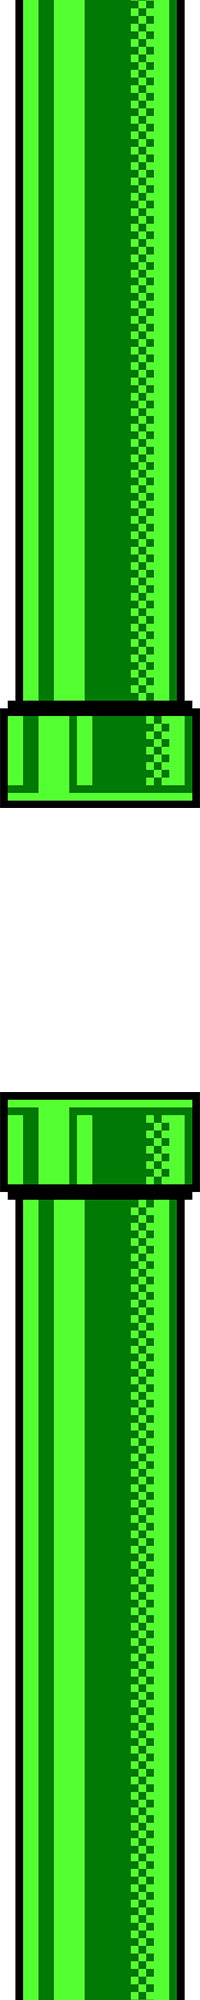
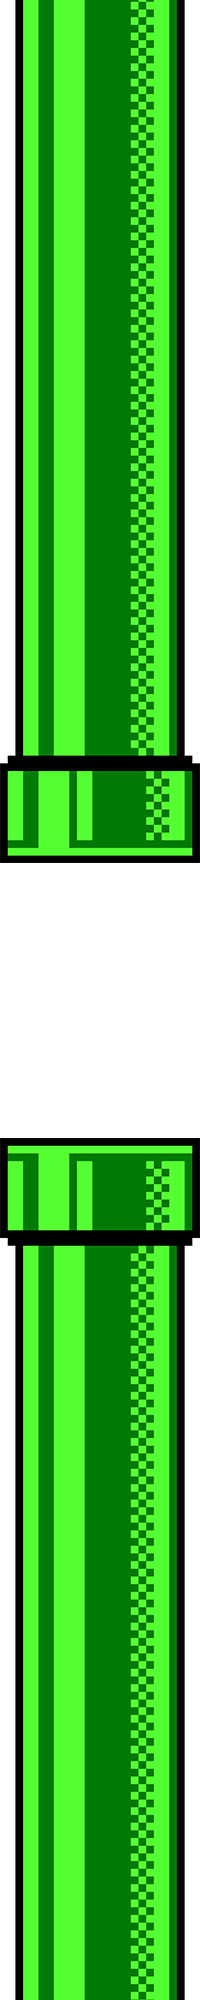
somewhat stable
it crashes when the first pipe gets moved back; otherwise works (gotta work on hitbox)

Changed region(s): [[0.0, 0.0, 1.0, 0.434], [0.0, 0.527, 1.0, 0.651]]

diff --git a/dwagon/DWAGON.java b/dwagon/DWAGON.java
@@ -8,7 +8,7 @@ import java.lang.Math;
  */
 public class DWAGON extends Actor 
 {
-    double a = 1.00000000001;    //acceleration
+    double a = 1.0001;    //acceleration
     double v;   //velocity
     double x;    //x-value
     boolean pressed_shift = false;
@@ -16,27 +16,32 @@ public class DWAGON extends Actor
     boolean dash_enabled = true;   //enables dash
     static boolean dead = false;
     int t;  //counted ticks
+    GreenfootImage dwagon_down = new GreenfootImage("images/dwagon_Wings_down.png");
+    GreenfootImage dwagon_middle = new GreenfootImage("images/dwagon_Wings_middle.png");
+    GreenfootImage dwagon_up = new GreenfootImage("images/dwagon_Wings_up.png");
     
     /**
      * Act - do whatever the dwagon wants to do. This method is called whenever
      * the 'Act' or 'Run' button gets pressed in the environment.
      */
     public DWAGON() {
-
+        dwagon_down.scale(dwagon_down.getWidth()/2,dwagon_down.getHeight()/2);
+        dwagon_middle.scale(dwagon_middle.getWidth()/2,dwagon_middle.getHeight()/2);
+        dwagon_up.scale(dwagon_up.getWidth()/2,dwagon_up.getHeight()/2);
     }
     
     public void act() 
     {        
         if (v <= -15) {
-            setImage("dwagon_Wings_down.png");
+            setImage(dwagon_down);
         }
         
         if (v >-15 || v >= 15) {
-            setImage("dwagon_Wings_middle.png");
+            setImage(dwagon_middle);
         }
         
         if (v > 15) {
-            setImage("dwagon_Wings_up.png");
+            setImage(dwagon_up);
         }
         
         v = (v + a);
@@ -65,11 +70,7 @@ public class DWAGON extends Actor
                 count = true;
             }
         }
-        
-        if (isTouching(PIPE.class)) {
-            dead = true;
-        }
-        
+                
         if (isAtEdge()) {  //checks if touched the ground or flew to high
             dead = true;           
         }
@@ -80,22 +81,19 @@ public class DWAGON extends Actor
         
         dead = false;
         
-        //for(PIPE pipe : getWorld().getObjects(PIPE.class)){
-        //    if(Math.abs(pipe.getX() - getX()) == -50){
-        //        if(Math.abs(pipe.getY() + 30 - getY()) > 37){
-        //            dead = true;
-        //        }
-        //    }
-        //}
+        for(PIPE pipe : getWorld().getObjects(PIPE.class)){
+            if(isTouching(PIPE.class)){
+                dash_enabled = false;
+                if(Math.abs(pipe.getY() - getY()) > 50){
+                    dead = true;
+                }
+            }
+            dash_enabled = true;
+        }
     }
-    
-    public boolean touches(Class clss) {
-        Actor actor = getOneObjectAtOffset(0, 0, clss);
-        return actor != null;        
-    }
-    
+        
     private void boost() {
-        v = -30;    //negative velocity for upwards movement
+        v = -25;    //negative velocity for upwards movement
     }
     
     private void dash() {

diff --git a/dwagon/PIPE.java b/dwagon/PIPE.java
@@ -12,18 +12,25 @@ public class PIPE extends Actor
      * Act - do whatever the PIPE wants to do. This method is called whenever
      * the 'Act' or 'Run' button gets pressed in the environment.
      */
+    int j = 0;
+    
     public PIPE() {
         GreenfootImage pipes = new GreenfootImage("images/pipes.png");
         pipes.scale(pipes.getWidth()/2,pipes.getHeight()/2);
         setImage(pipes);
     }
     public void act()
-    {
+    {       
+        World world = getWorld();
+        
         if(DWAGON.isAlive()){
             setLocation(getX() - 3, getY());
         }
         if(getX() <= 1){
-            setLocation(getX() + 700, 250 + Greenfoot.getRandomNumber(250));
+            world.addObject(new PIPE(), 702, 250 + Greenfoot.getRandomNumber(250));
+            getWorld().removeObject(this);
         }
     }
 }
+
+

diff --git a/dwagon/MyWorld.java b/dwagon/MyWorld.java
@@ -17,11 +17,15 @@ public class MyWorld extends World
     {    
         // Create a new world with 1080 x 720 cells with a cell size of 1x1 pixels.
         super(1080 , 720, 1); 
+        
         DWAGON dwagon = new DWAGON();
         addObject(dwagon, 300, 360);
         
-        PIPE pipe = new PIPE();
-        addObject(pipe, 0, 0);
+        //PIPE pipe = new PIPE();
+        //addObject(pipe, 0, 0);
+        
+        addObject(new PIPE(), 702, 300);
+        addObject(new PIPE(), 1000, 300); 
     }
 }
 

diff --git a/dwagon/TICK.java b/dwagon/TICK.java
@@ -8,7 +8,7 @@ import greenfoot.*;  // (World, Actor, GreenfootImage, Greenfoot and MouseInfo)
  */
 public class TICK extends Actor
 {
-    int ticks;
+    static int ticks;
     /**
      * Act - do whatever the TICK wants to do. This method is called whenever
      * the 'Act' or 'Run' button gets pressed in the environment.
